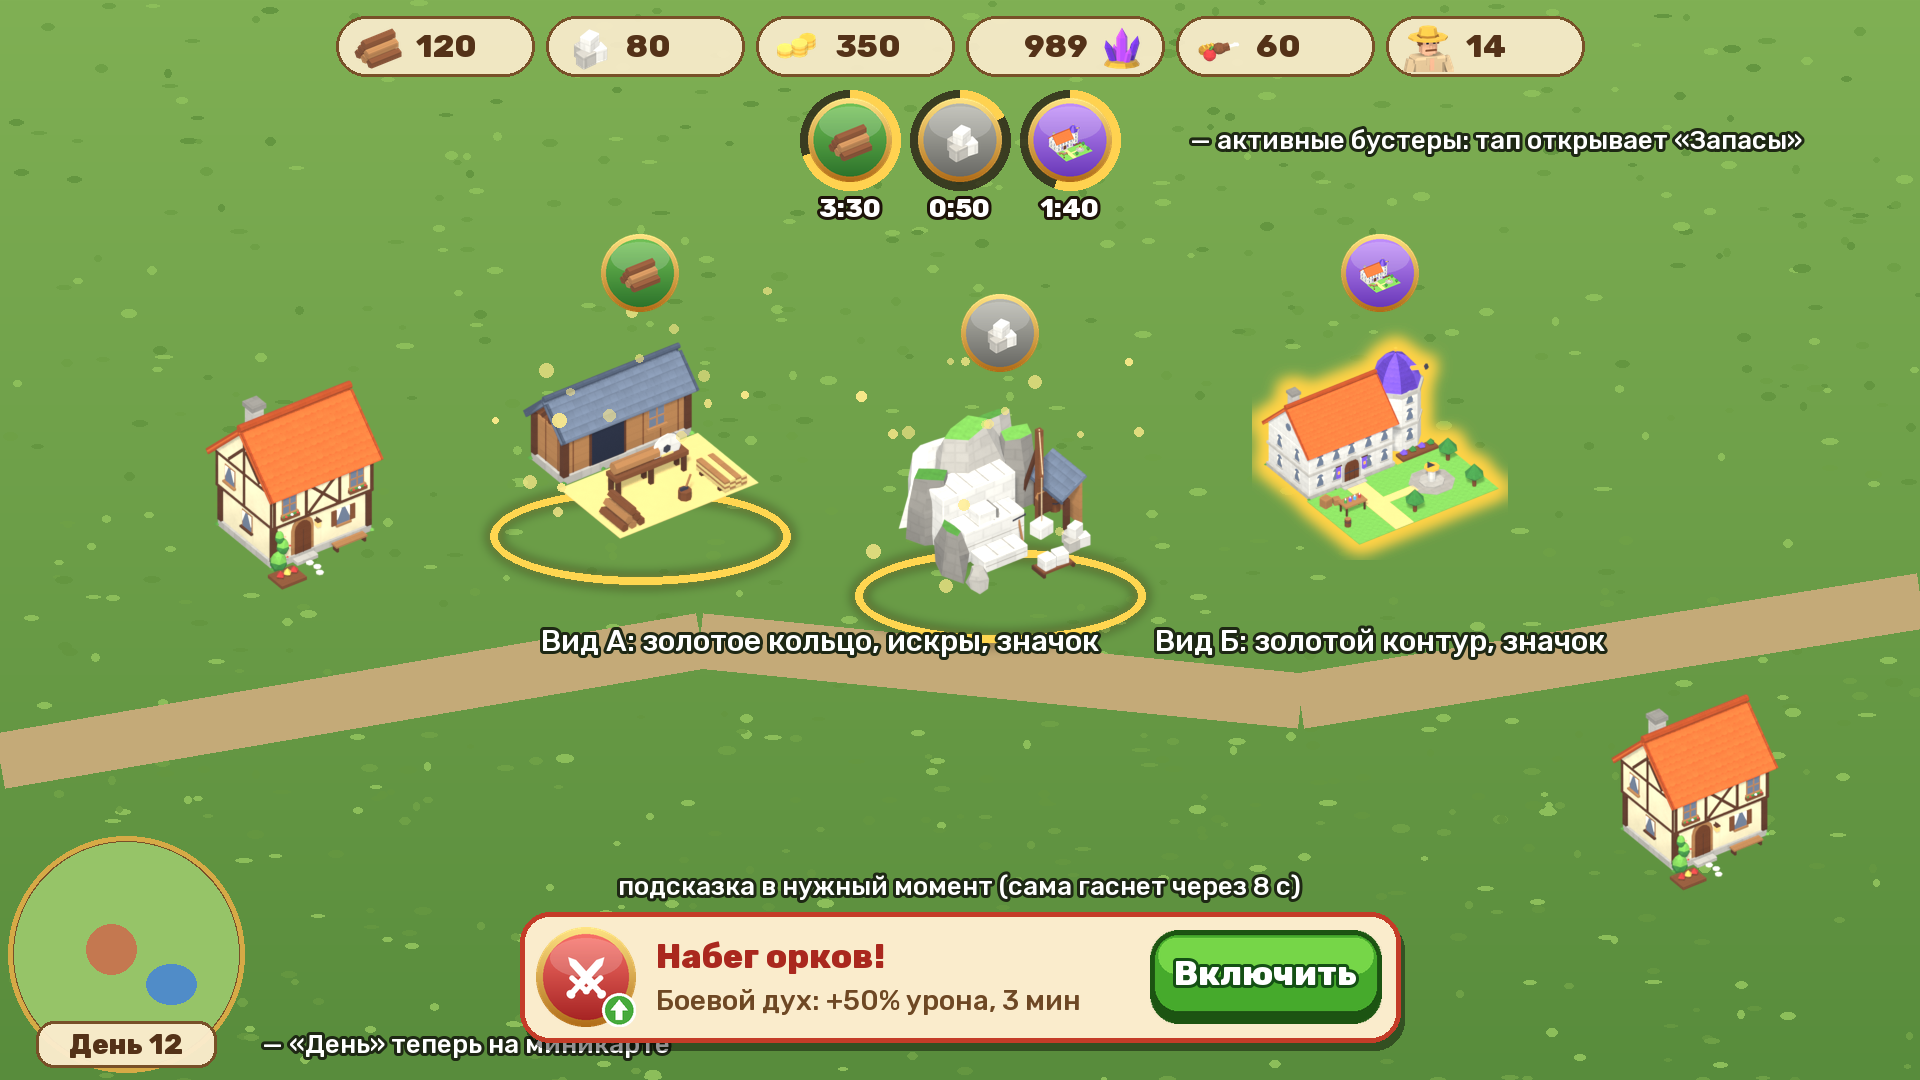
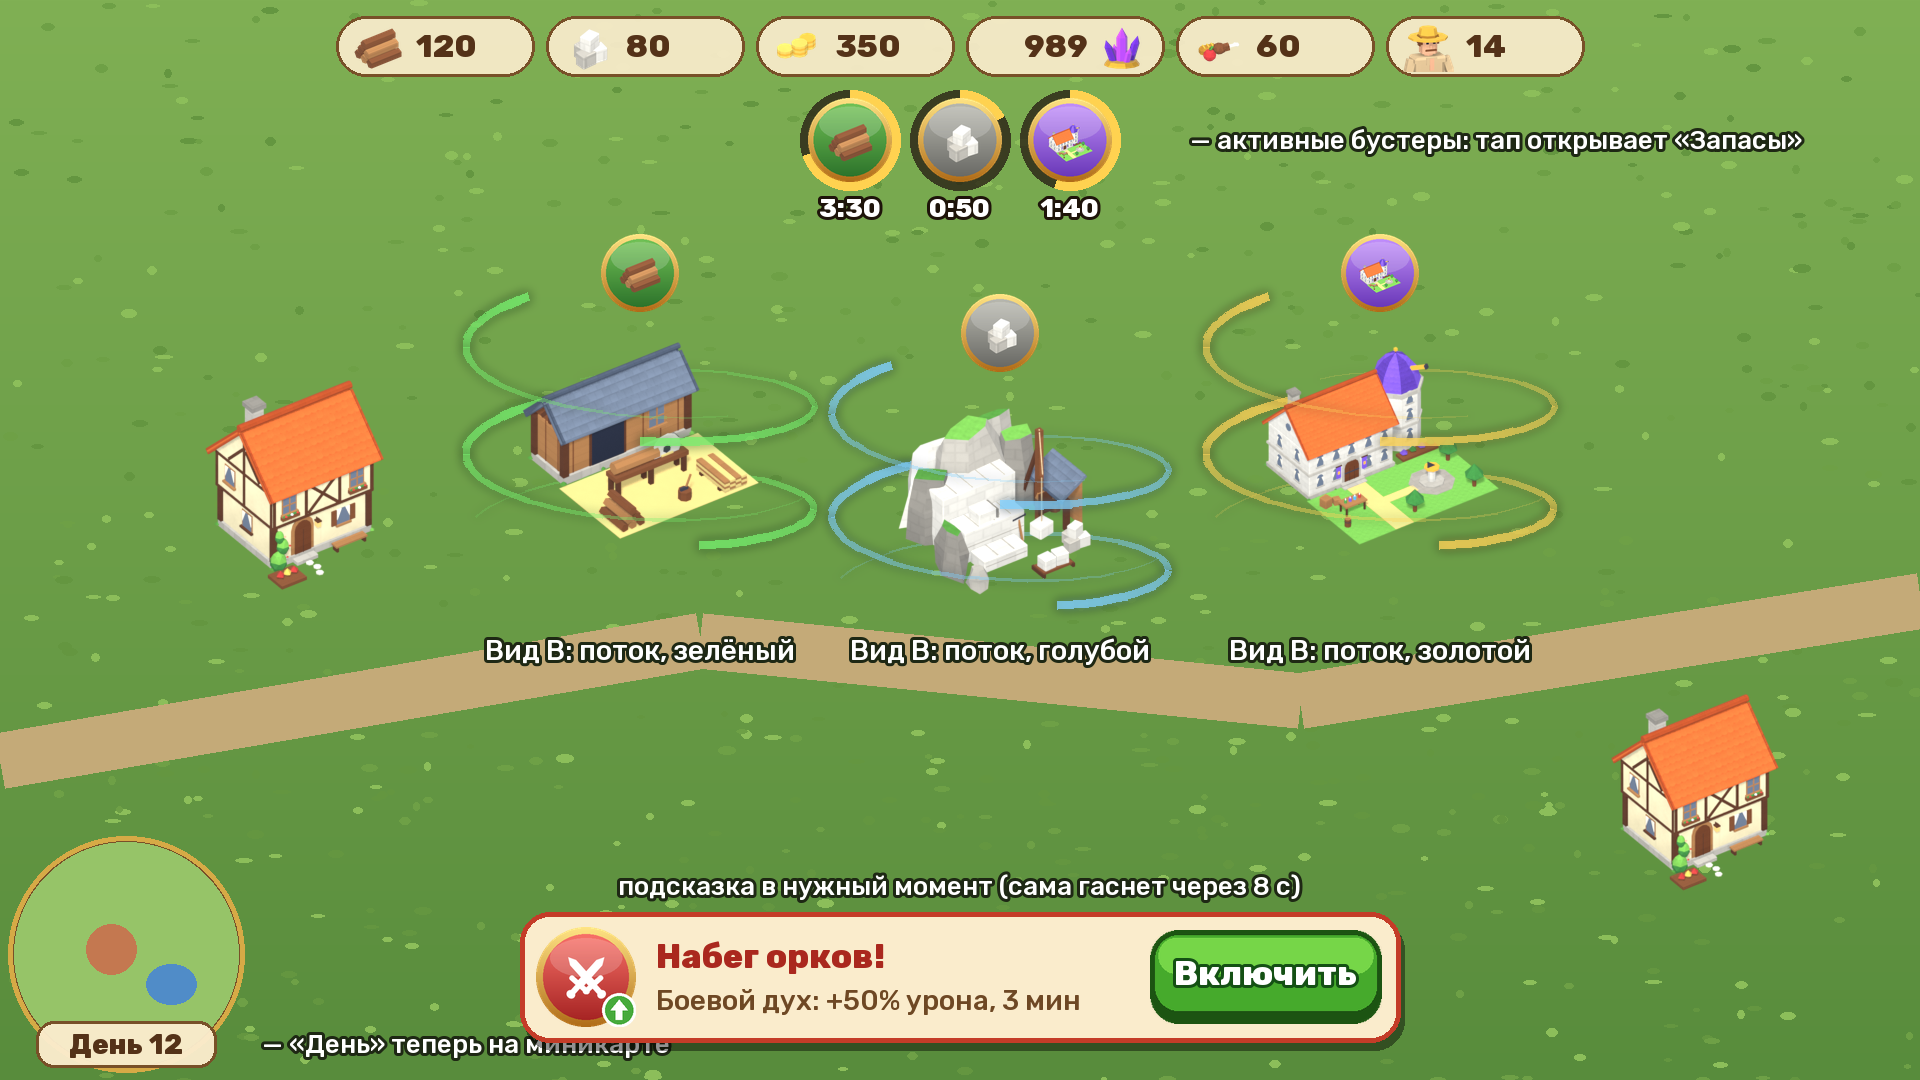
Boosters HUD concept: look C, a wind stream winding round a boosted building, in green, blue and gold

diff --git a/Tools/store/booster_mockup.py b/Tools/store/booster_mockup.py
@@ -281,7 +281,36 @@ def ground(W, H):
     return img
 
 
-def building(img, path, cx, base_y, size, look=None, colours=None, icons=None, t=0.0):
+def swirl(img, cx, base_y, size, colour, front):
+    """Look C (the user, 2026-11-12, after a well-known town builder): streams of wind winding up round
+    the building. Each streak is a tapering arc on a tilted ellipse; `front` draws the halves in front of
+    the building, else the halves behind it."""
+    import math
+    layer = Image.new('RGBA', img.size, (0, 0, 0, 0))
+    g = ImageDraw.Draw(layer)
+    rw, rh = size * 0.58, size * 0.17
+    for k, (h, a0, span) in enumerate(((0.02, 200, 230), (0.20, 20, 220), (0.38, 250, 200), (0.56, 60, 170))):
+        cy = base_y - 20 - size * h
+        n = 40
+        for i in range(n):
+            t0 = a0 + span * i / n
+            t1 = a0 + span * (i + 1) / n
+            ang = math.radians((t0 + t1) / 2)
+            is_front = math.sin(ang) > 0
+            if is_front != front:
+                continue
+            f = i / n                             # thin at the tail, thick and bright at the head
+            w = 2 + 8 * f
+            al = int(40 + 160 * f)
+            p0 = (cx + rw * math.cos(math.radians(t0)), cy + rh * math.sin(math.radians(t0)) - size * 0.12 * (t0 - a0) / span)
+            p1 = (cx + rw * math.cos(math.radians(t1)), cy + rh * math.sin(math.radians(t1)) - size * 0.12 * (t1 - a0) / span)
+            g.line([p0, p1], fill=colour + (al,), width=int(w))
+    glow = layer.filter(ImageFilter.GaussianBlur(5))
+    img.alpha_composite(glow)
+    img.alpha_composite(layer)
+
+
+def building(img, path, cx, base_y, size, look=None, colours=None, icons=None, t=0.0, wind=(120, 240, 110)):
     """A building's picture standing on `base_y`. look 'A': a gold ring + rising motes + a badge;
     look 'B': a gold outline glow + the badge."""
     pic = Image.open(UI + path).convert('RGBA')
@@ -301,7 +330,11 @@ def building(img, path, cx, base_y, size, look=None, colours=None, icons=None, t
         glow.putalpha(a.filter(ImageFilter.MaxFilter(13)).filter(ImageFilter.GaussianBlur(7)))
         img.alpha_composite(glow, (x0, y0))
         img.alpha_composite(glow, (x0, y0))
+    if look == 'C':
+        swirl(img, cx, base_y, size, wind, False)
     img.alpha_composite(pic, (x0, y0))
+    if look == 'C':
+        swirl(img, cx, base_y, size, wind, True)
     if look == 'A':
         d = ImageDraw.Draw(img)
         import random
@@ -323,14 +356,14 @@ def hud():
     stone = BOOSTERS[1]
     lab = BOOSTERS[5]
     building(img, 'Icons/Cottage.png', 300, 600, 260)
-    building(img, 'Icons/Sawmill.png', 640, 560, 300, 'A', sawmill[5], sawmill[6])
-    building(img, 'Icons/Quarry.png', 1000, 620, 290, 'A', stone[5], stone[6])
-    building(img, 'Icons/Laboratory.png', 1380, 560, 300, 'B', lab[5], lab[6])
+    building(img, 'Icons/Sawmill.png', 640, 560, 300, 'C', sawmill[5], sawmill[6])
+    building(img, 'Icons/Quarry.png', 1000, 620, 290, 'C', stone[5], stone[6], wind=(130, 210, 255))
+    building(img, 'Icons/Laboratory.png', 1380, 560, 300, 'C', lab[5], lab[6], wind=(255, 214, 90))
     building(img, 'Icons/Cottage.png', 1700, 900, 240)
     d = ImageDraw.Draw(img)
     med = m.R + 'Assets/_Project/Resources/Fonts/Rubik-Medium.ttf'
-    m.text(d, (820, 640), 'Вид А: золотое кольцо, искры, значок', 30, 'white', stroke=3, stroke_fill=(30, 40, 20), path=med)
-    m.text(d, (1380, 640), 'Вид Б: золотой контур, значок', 30, 'white', stroke=3, stroke_fill=(30, 40, 20), path=med)
+    for x, t in ((640, 'зелёный'), (1000, 'голубой'), (1380, 'золотой')):
+        m.text(d, (x, 650), 'Вид В: поток, ' + t, 28, 'white', stroke=3, stroke_fill=(30, 40, 20), path=med)
 
     # the top bar (schematic: the game's own chips), crystals number-then-icon
     chips = [('Res_Wood', '120'), ('Res_Stone', '80'), ('Res_Coins', '350'), ('Res_UpgradeCrystal', '989'),
